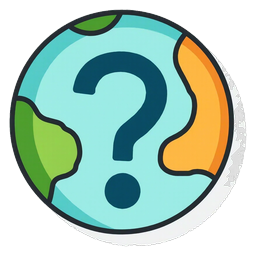
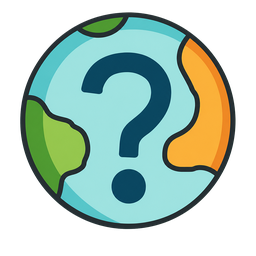
Remove enclosed white from reaction artwork
Three reaction icons (wow, lost, wrong-way) contained large enclosed white
regions from generation — white interior areas the border flood fill cannot
reach (wide eyes, globe interiors). The post-processing now removes enclosed
near-white components above a size threshold, keeping small design
highlights intact; the other seven icons are unchanged. Also ignore the
Playwright staging directory (frontend/.playwright-run), which was missing
from .gitignore and could be swept into commits by a blanket add.

diff --git a/frontend/src/components/chat/Chat.tsx b/frontend/src/components/chat/Chat.tsx
@@ -5,6 +5,7 @@ import type { Message } from '../../types';
 import Avatar from '../common/Avatar';
 import Icon from '../ui/Icon';
 import ChatAttachment from './ChatAttachment';
+import { reactionByKey, reactionOptions } from './reactionOptions';
 import './Chat.css';
 import './ChatActions.css';
 
@@ -17,27 +18,6 @@ interface ChatProps {
     onChallengeMessage?: (message: Message) => void;
     onMessageUpdated?: (message: Message) => void;
 }
-
-interface ReactionOption {
-    reaction: string;
-    label: string;
-    image: string;
-}
-
-const reactionOptions: ReactionOption[] = [
-    { reaction: 'like', label: 'thumbs up', image: '/reactions/like.png' },
-    { reaction: 'love', label: 'love', image: '/reactions/love.png' },
-    { reaction: 'laugh', label: 'laughing', image: '/reactions/laugh.png' },
-    { reaction: 'wow', label: 'surprised', image: '/reactions/wow.png' },
-    { reaction: 'sad', label: 'sad', image: '/reactions/sad.png' },
-    { reaction: 'spot-on', label: 'spot on', image: '/reactions/spot-on.png' },
-    { reaction: 'lost', label: 'lost', image: '/reactions/lost.png' },
-    { reaction: 'mind-blown', label: 'mind blown', image: '/reactions/mind-blown.png' },
-    { reaction: 'wrong-way', label: 'wrong way', image: '/reactions/wrong-way.png' },
-    { reaction: 'vacation', label: 'vacation', image: '/reactions/vacation.png' },
-];
-
-const reactionByKey = new Map(reactionOptions.map((option) => [option.reaction, option]));
 
 // How long a touch must be held before the reply/react panel opens. This is
 // the deliberate long press that replaces tap-to-open on touch devices.

diff --git a/frontend/src/components/chat/reactionOptions.ts b/frontend/src/components/chat/reactionOptions.ts
@@ -1,0 +1,20 @@
+export interface ReactionOption {
+    reaction: string;
+    label: string;
+    image: string;
+}
+
+export const reactionOptions: ReactionOption[] = [
+    { reaction: 'like', label: 'thumbs up', image: '/reactions/like.png' },
+    { reaction: 'love', label: 'love', image: '/reactions/love.png' },
+    { reaction: 'laugh', label: 'laughing', image: '/reactions/laugh.png' },
+    { reaction: 'wow', label: 'surprised', image: '/reactions/wow.png' },
+    { reaction: 'sad', label: 'sad', image: '/reactions/sad.png' },
+    { reaction: 'spot-on', label: 'spot on', image: '/reactions/spot-on.png' },
+    { reaction: 'lost', label: 'lost', image: '/reactions/lost.png' },
+    { reaction: 'mind-blown', label: 'mind blown', image: '/reactions/mind-blown.png' },
+    { reaction: 'wrong-way', label: 'wrong way', image: '/reactions/wrong-way.png' },
+    { reaction: 'vacation', label: 'vacation', image: '/reactions/vacation.png' },
+];
+
+export const reactionByKey = new Map(reactionOptions.map((option) => [option.reaction, option]));

diff --git a/backend/handlers/messages.go b/backend/handlers/messages.go
@@ -218,6 +218,7 @@ var allowedReactions = map[string]struct{}{
 
 type messageReactionRequest struct {
 	Reaction string `json:"reaction"`
+	Emoji    string `json:"emoji"`
 }
 
 // SetMessageReaction adds a reaction, while DELETE removes the same user's
@@ -238,6 +239,9 @@ func SetMessageReaction(w http.ResponseWriter, r *http.Request) {
 		return
 	}
 	req.Reaction = strings.TrimSpace(req.Reaction)
+	if req.Reaction == "" {
+		req.Reaction = strings.TrimSpace(req.Emoji)
+	}
 	if _, ok := allowedReactions[req.Reaction]; !ok {
 		writeError(w, http.StatusBadRequest, "invalid_reaction", "Choose a supported reaction")
 		return
@@ -289,6 +293,7 @@ func SetMessageReaction(w http.ResponseWriter, r *http.Request) {
 		broadcast.ReactionUpdate = &models.ReactionUpdate{
 			UserID:   userID,
 			Reaction: req.Reaction,
+			Emoji:    req.Reaction,
 			Active:   r.Method == http.MethodPut,
 		}
 		HubInstance.BroadcastUpdate(broadcast)

diff --git a/backend/internal/models/message.go b/backend/internal/models/message.go
@@ -24,6 +24,7 @@ type Message struct {
 
 type Reaction struct {
 	Reaction  string   `json:"reaction"`
+	Emoji     string   `json:"emoji"`
 	Count     int      `json:"count"`
 	Reacted   bool     `json:"reacted"`
 	Usernames []string `json:"usernames"`
@@ -35,5 +36,6 @@ type Reaction struct {
 type ReactionUpdate struct {
 	UserID   string `json:"user_id"`
 	Reaction string `json:"reaction"`
+	Emoji    string `json:"emoji"`
 	Active   bool   `json:"active"`
 }

diff --git a/backend/internal/repository/messages.go b/backend/internal/repository/messages.go
@@ -201,6 +201,7 @@ func enrichMessageReactions(ctx context.Context, messages []models.Message, view
 		if err := rows.Scan(&messageID, &reaction.Reaction, &reaction.Count, &reaction.Reacted, &reaction.Usernames); err != nil {
 			return err
 		}
+		reaction.Emoji = reaction.Reaction
 		reactions[messageID] = append(reactions[messageID], reaction)
 	}
 	if err := rows.Err(); err != nil {

diff --git a/docs/api.md b/docs/api.md
@@ -29,7 +29,8 @@ All endpoints are rooted at `/api/v1`. The canonical specification is
 - Messages may include aggregate `reactions`; each entry contains a reaction key
   (mapping to the custom reaction artwork), count, the `usernames` of members
   who selected it, and a `reacted` flag for the authenticated viewer. Usernames
-  are sorted alphabetically.
+  are sorted alphabetically. Reaction requests use `reaction`; the deprecated
+  `emoji` request and response alias remains available during rolling upgrades.
 - Live reaction updates include `reaction_update` metadata so each WebSocket
   recipient applies the shared count without inheriting another member's
   viewer-specific `reacted` state. Guess submission also publishes a
